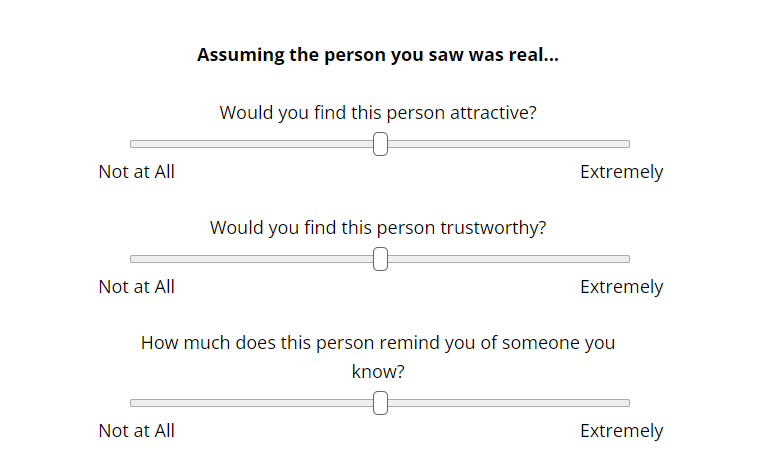
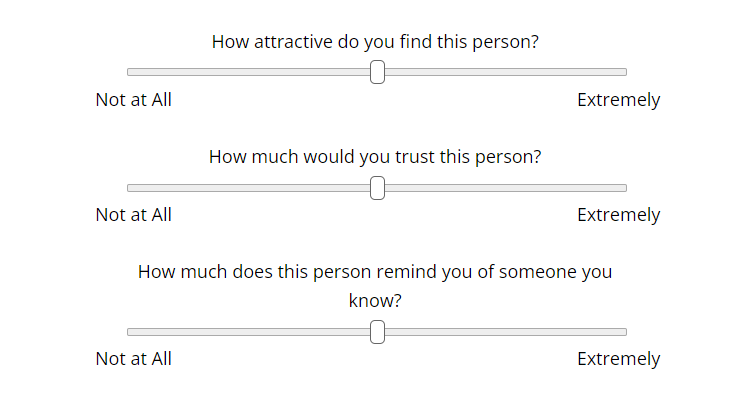
update questions

diff --git a/experiment/parameters.js b/experiment/parameters.js
@@ -6,9 +6,9 @@ var scale2 = ["Strongly Disagree", "Strongly Agree"]
 // Oosterhof and Todorov (2008) - 9 point scale (Not at all to Extremely)
 var items = [
     //"The face looked real to me",
-    "<b>Assuming the person you saw was real...</b> <br><br>Would you find this person attractive?",
+    "How attractive do you find this person?",
     // "Would you find this person approachable?",
-    "Would you find this person trustworthy?",
+    "How much would you trust this person?",
     "How much does this person remind you of someone you know?",
     // "How much does this face look like yours?",
     // "How weird is the face you saw?",   // include eeriness as well? (cf uncanny valley effect)
